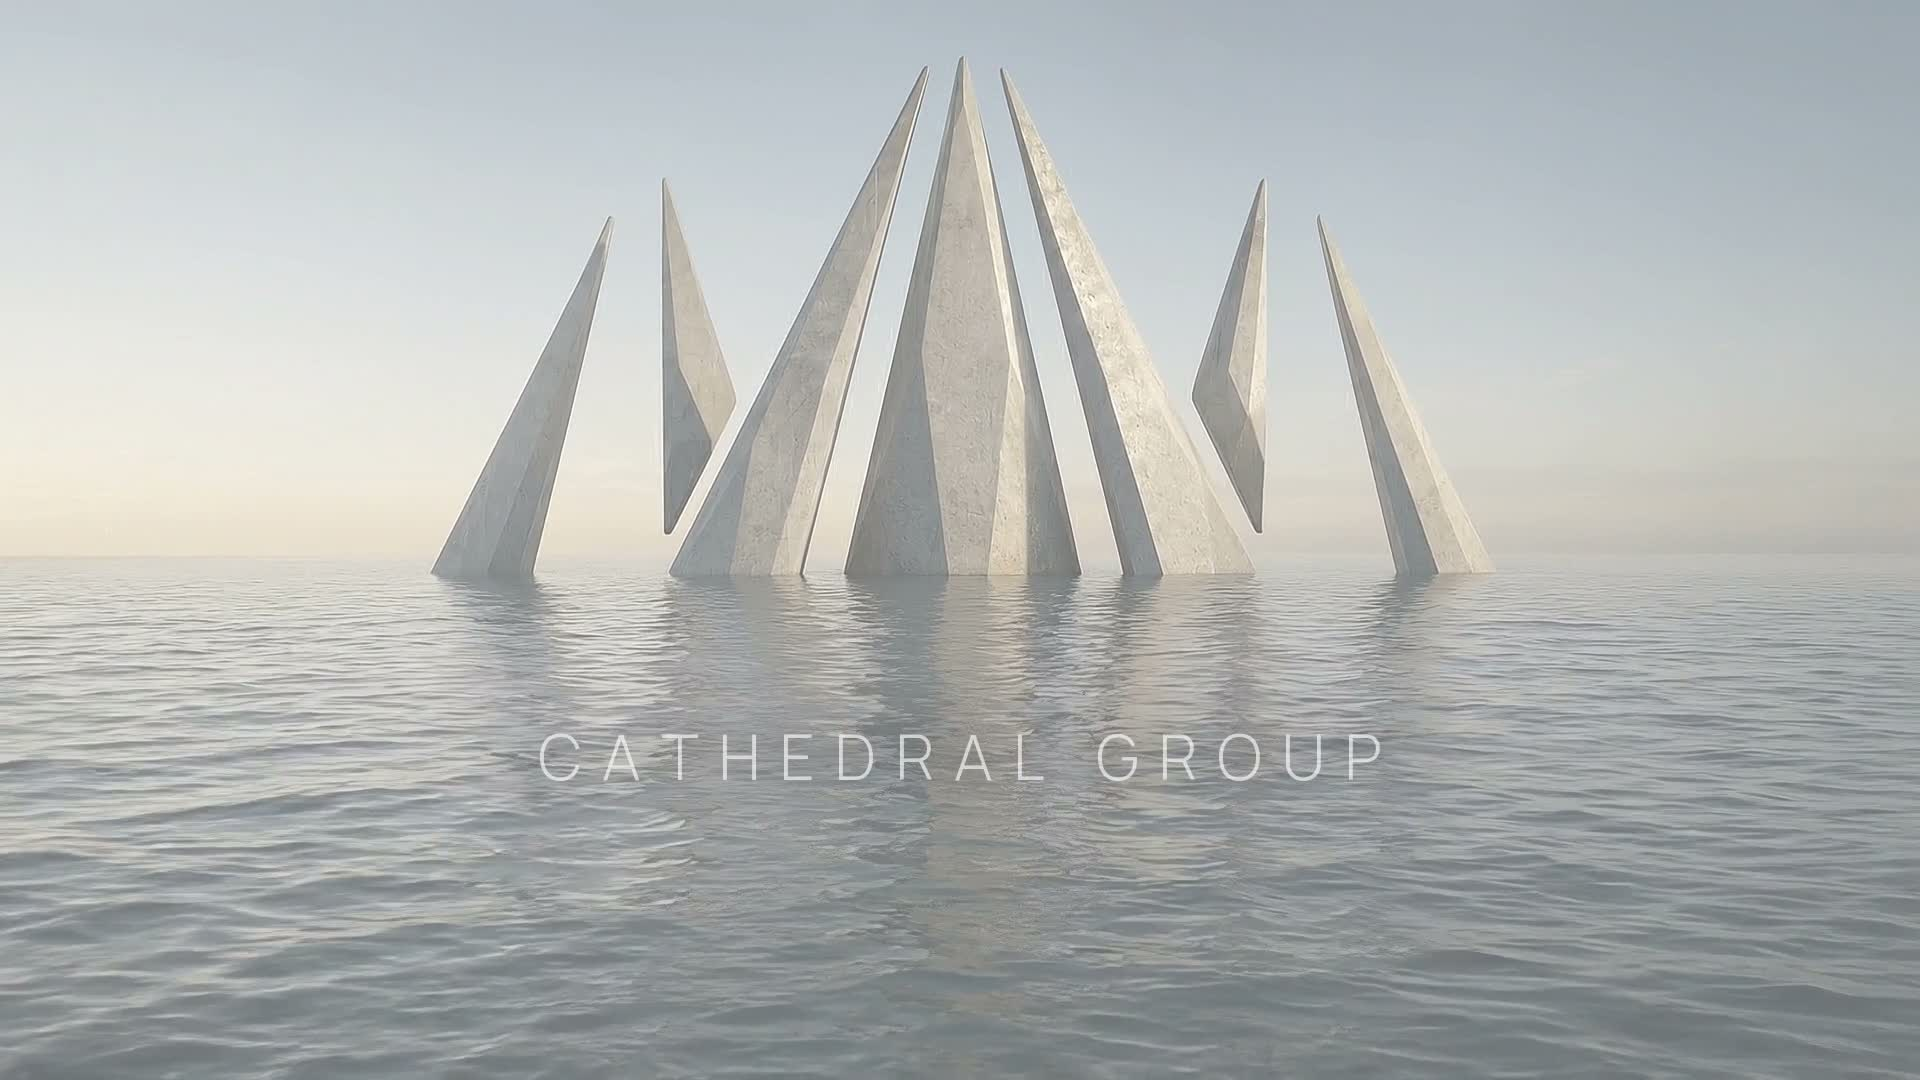
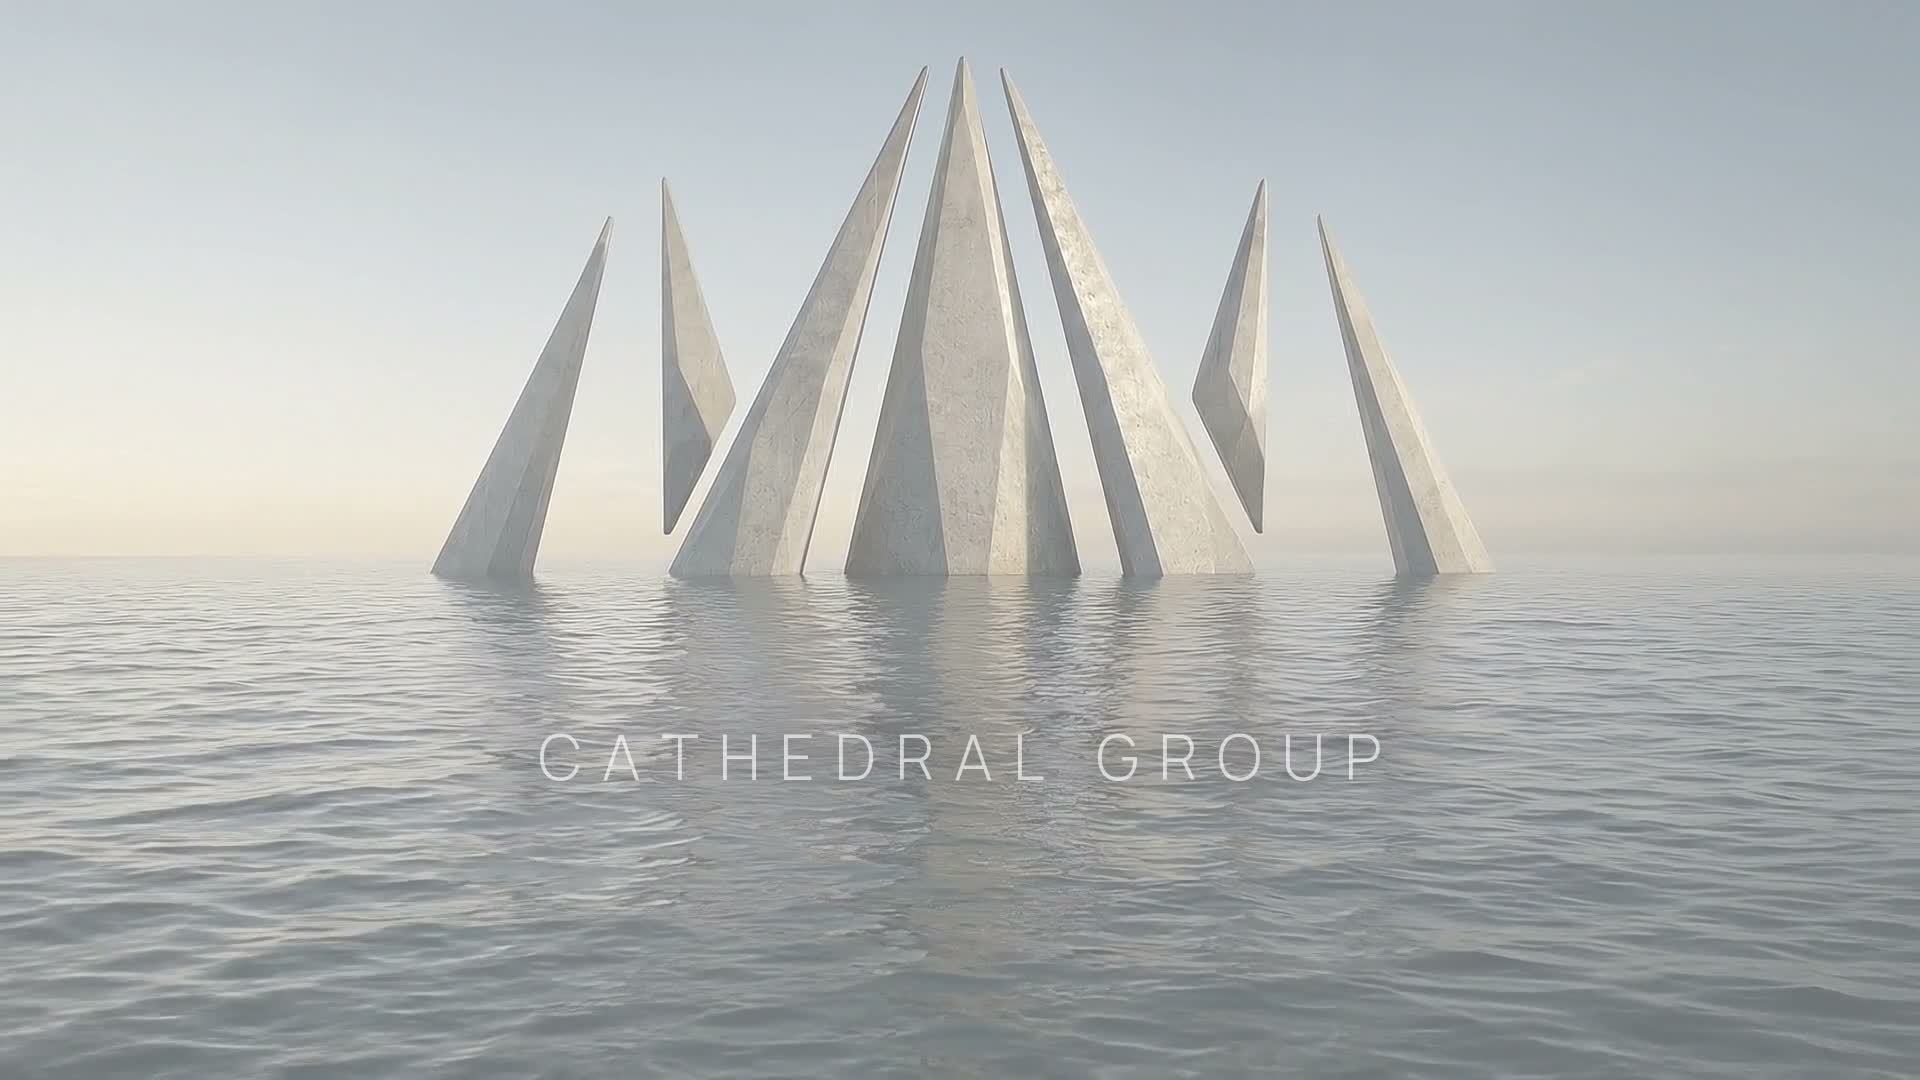
feat(hero): frenado fluido (minterpolate) + reproduce una vez y se queda fijo
- Vídeo: el final ahora desacelera con slow-motion interpolado (minterpolate
  mci) en vez de duplicar frames (eliminaba el judder 'a golpes'), con el velo
  y CATHEDRAL GROUP entrando muy progresivos y hold final largo.
- HeroVideo: quitado el IntersectionObserver. Reproduce UNA vez al cargar y se
  queda fijo en el último frame; solo reinicia al recargar o navegar fuera y
  volver (el componente se remonta). Validado con doc-validator.

diff --git a/components/sections/HeroVideo.tsx b/components/sections/HeroVideo.tsx
@@ -1,36 +1,15 @@
 'use client'
 
-import { useEffect, useRef } from 'react'
-
-// Hero del brand film de la home: se reproduce UNA vez (sin bucle) y se queda
-// en el último frame (logo + CATHEDRAL GROUP). Cuando el hero sale de la vista
-// y vuelve a entrar (scroll arriba), se reinicia y reproduce de nuevo. Sin audio.
+// Hero del brand film de la home: se reproduce UNA vez al cargar la página
+// (autoplay, sin bucle, sin audio) y se queda FIJO en el último frame
+// (escena velada + CATHEDRAL GROUP). Solo vuelve a reproducirse al recargar
+// la página o al navegar fuera y volver a la home (el componente se remonta).
+// Es above-the-fold y a pantalla completa → no necesita IntersectionObserver.
 export default function HeroVideo() {
-  const ref = useRef<HTMLVideoElement>(null)
-
-  useEffect(() => {
-    const v = ref.current
-    if (!v) return
-
-    const io = new IntersectionObserver(
-      ([entry]) => {
-        if (entry.isIntersecting) {
-          v.currentTime = 0
-          v.play().catch(() => {})
-        } else {
-          v.pause()
-        }
-      },
-      { threshold: 0.35 }
-    )
-    io.observe(v)
-    return () => io.disconnect()
-  }, [])
-
   return (
     <video
-      ref={ref}
       className="absolute inset-0 w-full h-full object-cover"
+      autoPlay
       muted
       playsInline
       preload="auto"